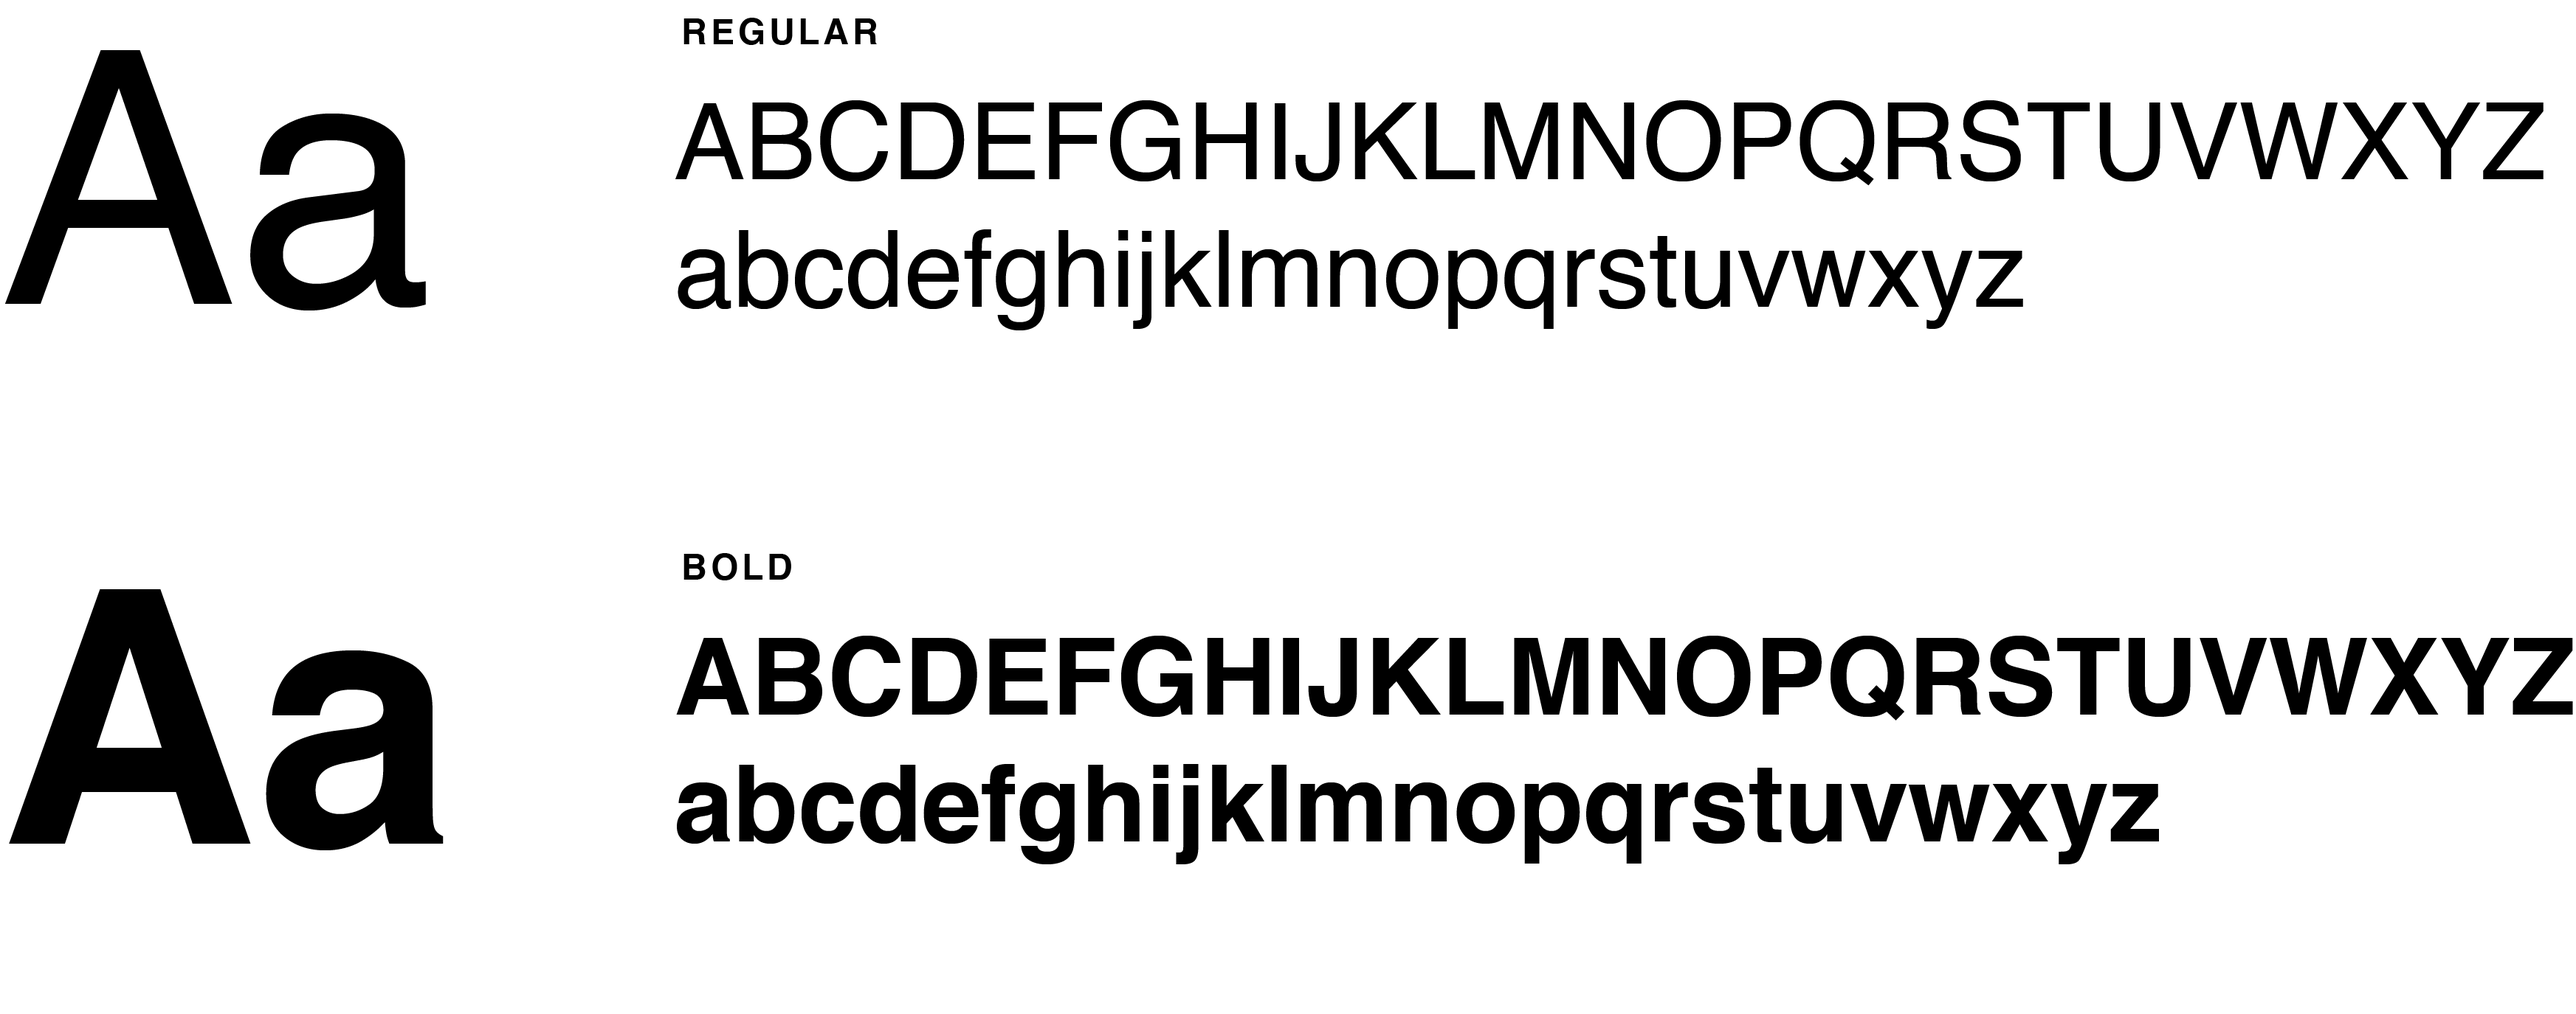
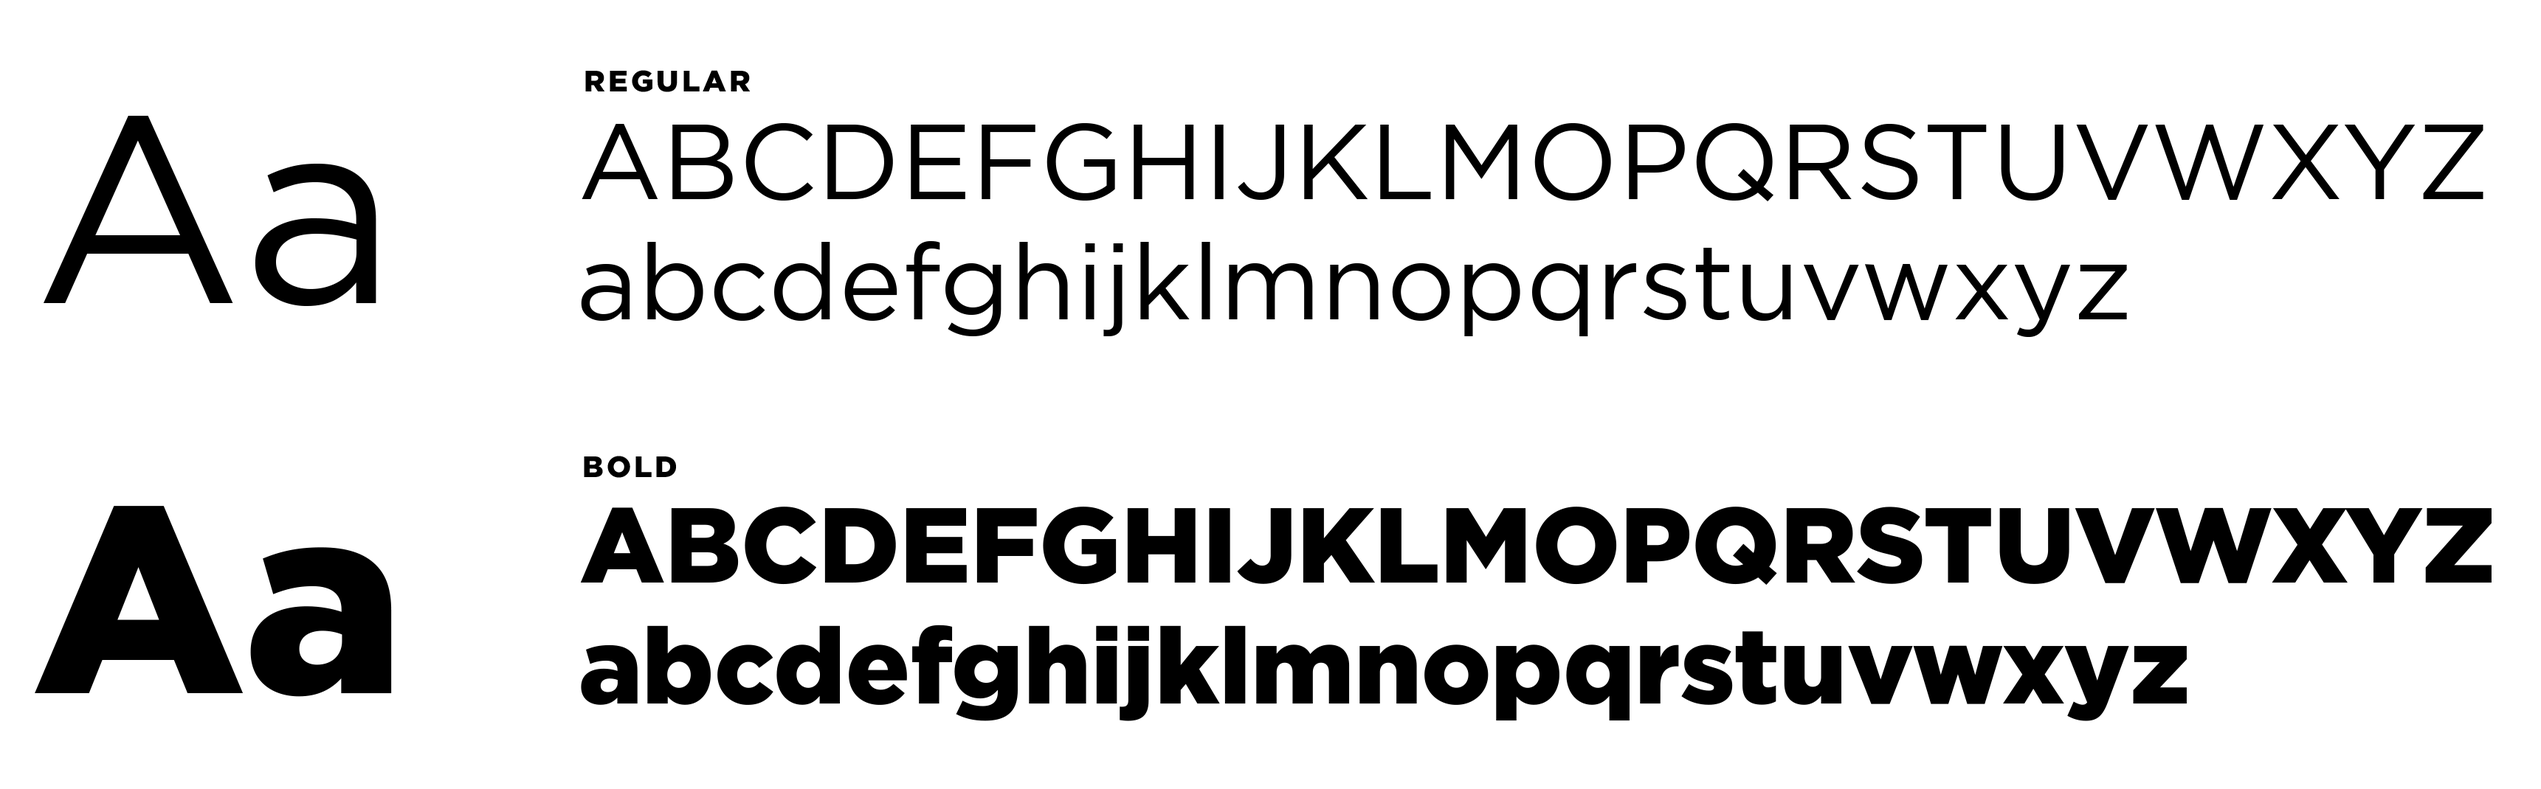
change les font

diff --git a/src/LES/LES.js b/src/LES/LES.js
@@ -67,11 +67,9 @@ export const LES = () => {
         like the city grid of the Lower East Side.
         <br />
         <br />
-        The brand uses Helvetica as the main typeface because, like the
-        neighborhood itself, Helvetica has a long and grand history. Helvetica
-        is also used in both old and new design and, with the recent rise of
-        brutalist design, Helvetica is now used in artsier places like the logo
-        of Comme des Gar&ccedil;ons.
+        The brand uses all-caps Gotham to further allude to NYC. Specifically,
+        Gotham Black is used, because the boldness of the typeface helps create
+        a more filled in silhouette that resembles the NYC street grid.
       </FadeInView>
       <FadeInView component={motion.img} src="/les-katz.png" marginBottom />
       <FadeInView component={motion.img} src="/les-dirt.png" marginBottom />

diff --git a/src/Homepage/Homepage.js b/src/Homepage/Homepage.js
@@ -36,8 +36,8 @@ const Container = ({ location }) => {
     '#191819',
     '#191819',
     '#011150',
-    '#720a0a',
     '#333333',
+    '#720a0a',
     '#004430',
     '#420046',
     '#191819',
